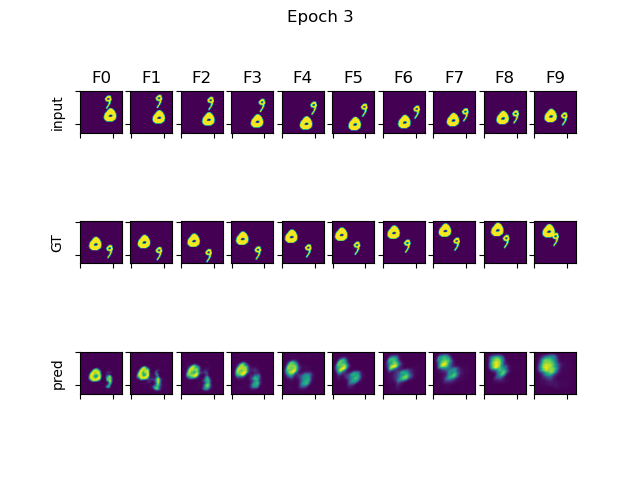
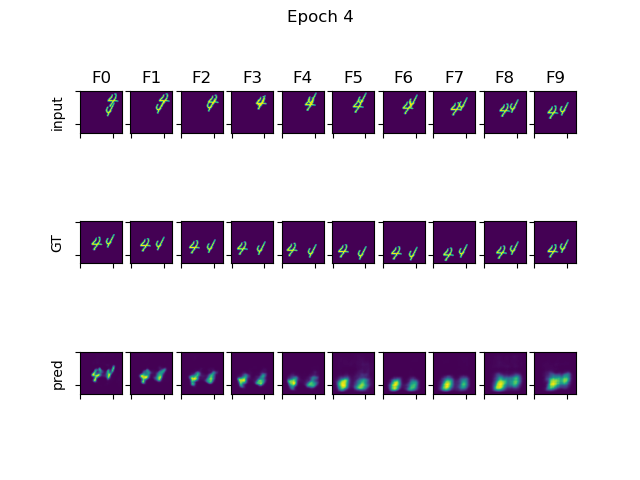
simvp smaller

diff --git a/gan/models/simvp/simvp/model.py b/gan/models/simvp/simvp/model.py
@@ -70,7 +70,7 @@ class SimVP(nn.Module):
         params,
         shape_in=(10, 1),
         hid_S=64,
-        hid_D=256,
+        hid_D=128,
         hid_T=256,
         N_S=4,
         N_T=8,
